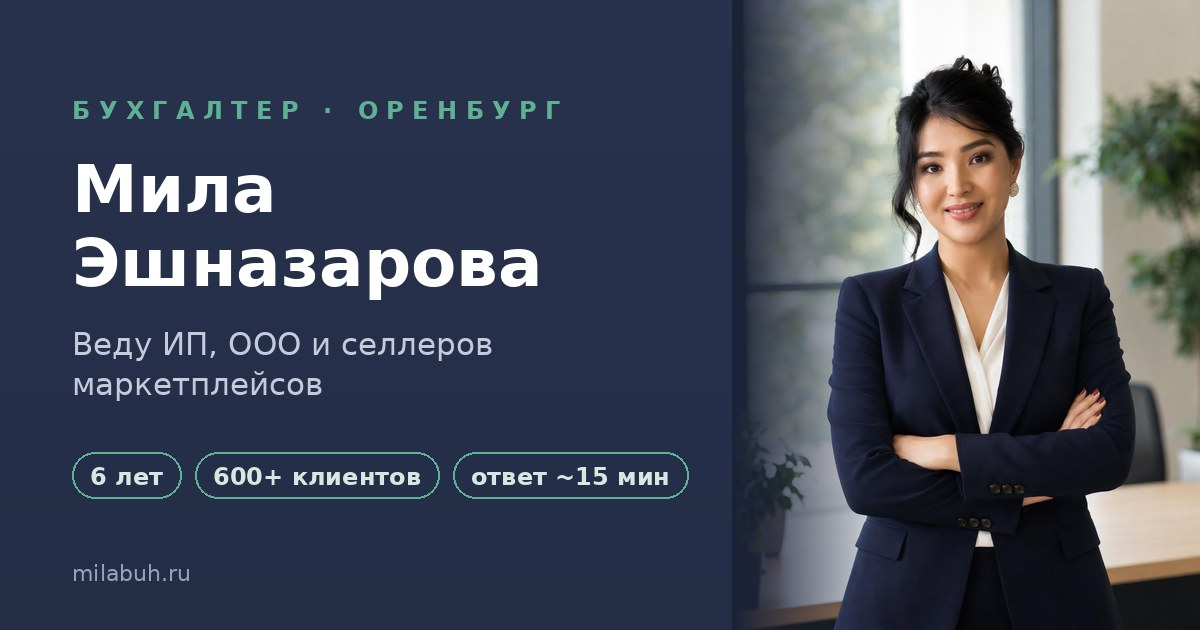
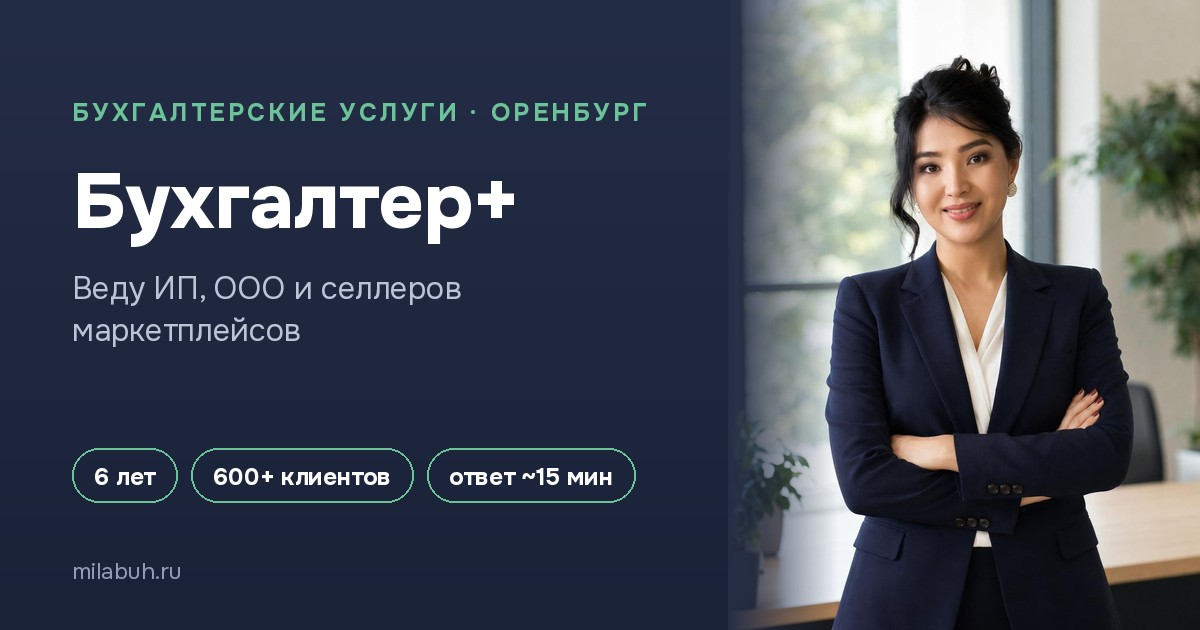
feat: бренд «Бухгалтер+» в шапке/футере/SEO, личное имя оставлено в блоке «Обо мне»; Telegram @milabuhgalter; новый og:image на Onest

diff --git a/src/data/site.ts b/src/data/site.ts
@@ -9,12 +9,14 @@
 // ============================================================================
 
 export const brand = {
-  // реальное имя бухгалтера (в маркетинге личный бренд продаёт лучше «фирмы»)
-  name: 'Мила Эшназарова',
+  // Коммерческое обозначение (бренд) — шапка, футер, title, og:site_name, schema.
+  name: 'Бухгалтер плюс',
+  // Начертание бренда в логотипе (визуально короче и заметнее).
+  nameShort: 'Бухгалтер+',
+  // Реальное имя специалиста — блок «Обо мне», контакты, schema Person, alt фото.
+  person: 'Мила Эшназарова',
   // короткая подпись под логотипом
-  role: 'Бухгалтер · Оренбург',
-  // инициалы для логотипа-марки
-  initials: 'МЭ',
+  role: 'Бухгалтерские услуги · Оренбург',
   city: 'Оренбург',
   region: 'Оренбург и область',
   // __PLACEHOLDER__ — реальный стаж в годах
@@ -32,7 +34,7 @@ export const contacts = {
   hours: 'Пн–Пт, 9:00–18:00',
   whatsapp: 'https://wa.me/79877978588',
   // Telegram по номеру. Если появится @username — заменить на https://t.me/username
-  telegram: 'https://t.me/+79877978588',
+  telegram: 'https://t.me/milabuhgalter',
   // Публичная ссылка на профиль в МАКС (из приложения: аватар → QR → «Поделиться»)
   maxLink: 'https://max.ru/u/f9LHodD0cOKLFyjVktrUcGrhxV2WI0uSLFTmNq8-dvS2tjAu3KbjAYBsdtc',
 };
@@ -190,6 +192,6 @@ export const cta = {
 };
 
 export const seo = {
-  title: `Бухгалтер для ИП и ООО в Оренбурге — ${brand.name}`,
+  title: `Бухгалтер для ИП и ООО в Оренбурге — «${brand.name}»`,
   description: 'Частный бухгалтер в Оренбурге и области: ведение ИП, ООО и селлеров маркетплейсов под ключ, отчётность в ФНС и СФР, зарплата и кадры. Работаю официально по договору. Цены открыто.',
 };
